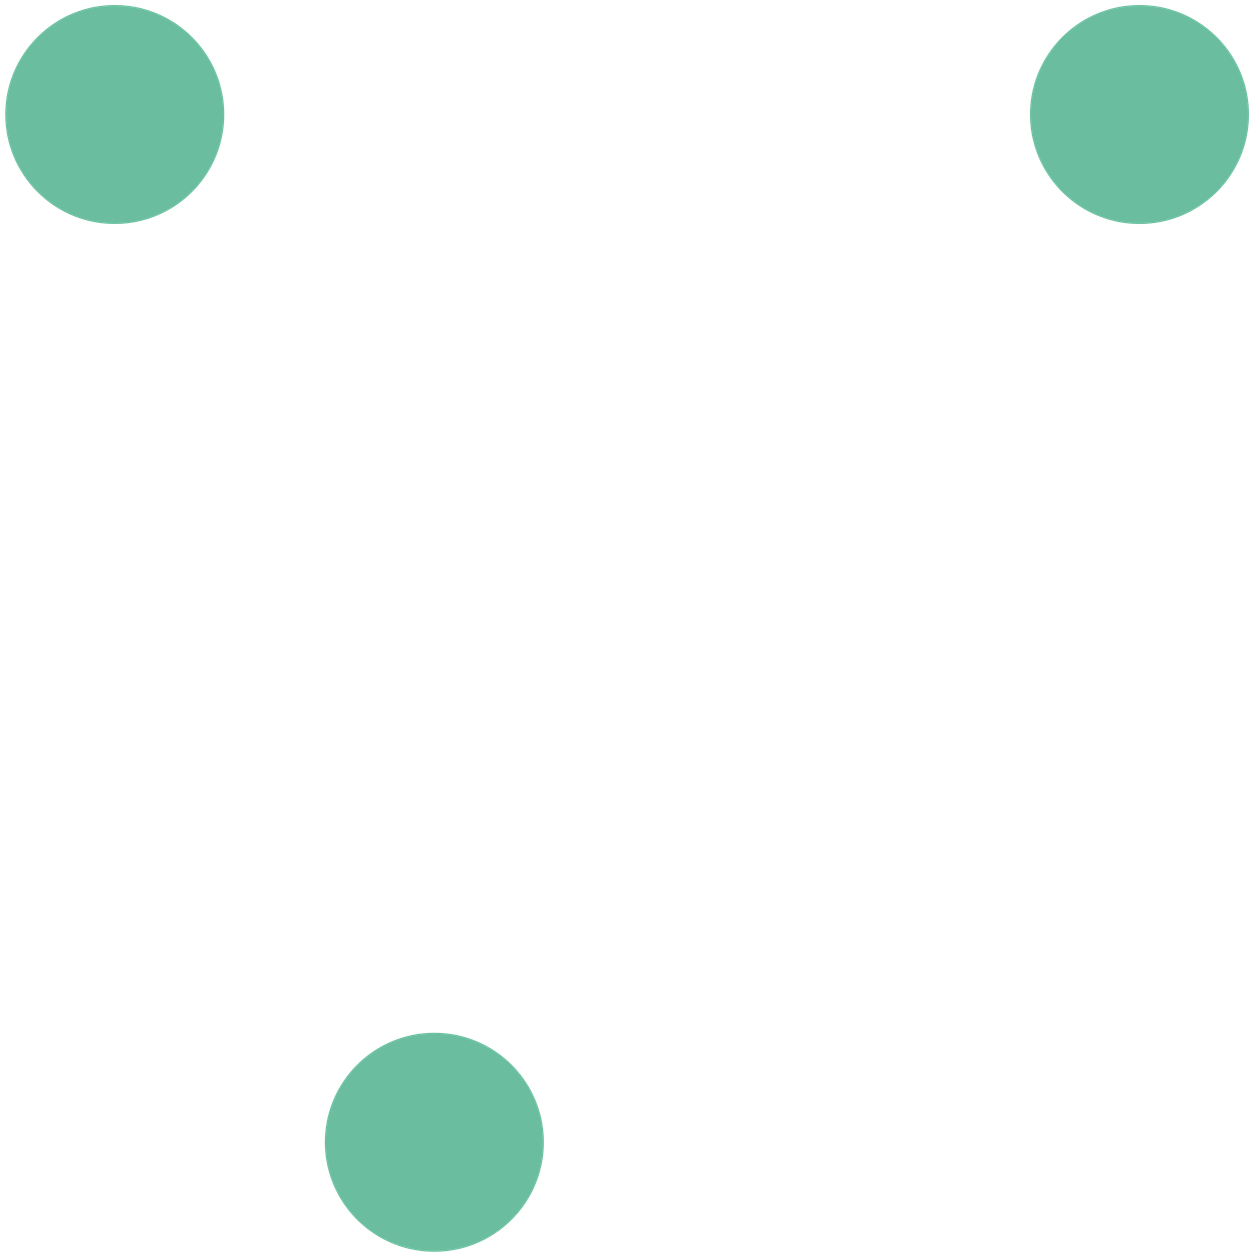
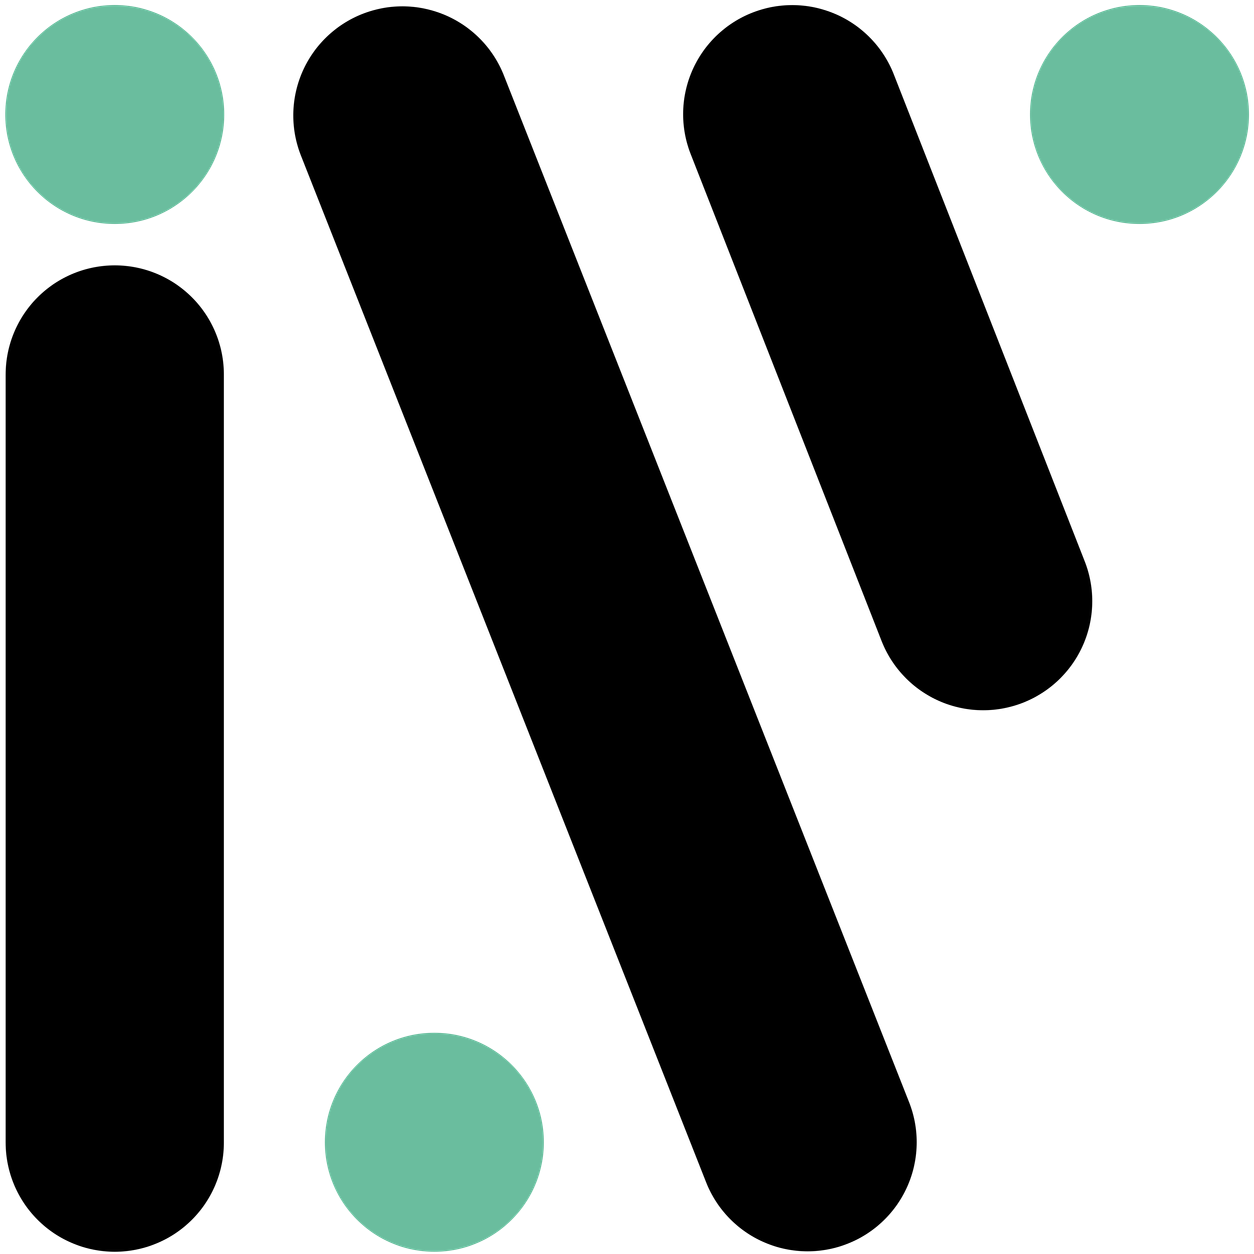
Injeccotr World Ver: 0.71

diff --git a/lib/seo-defaults.ts b/lib/seo-defaults.ts
@@ -4,6 +4,8 @@ const siteUrl = process.env.NEXT_PUBLIC_SITE_URL || 'https://injector.world'
 
 // Sitewide fallback social share image. Square logo mark, not a designed
 // 1200x630 banner -- swap for a proper OG banner when one exists.
+// Black mark on solid white (not transparent) so it stays visible regardless
+// of what background color the sharing platform's preview card uses.
 export const DEFAULT_OG_IMAGES: NonNullable<NonNullable<Metadata['openGraph']>['images']> = [
-  { url: `${siteUrl}/iw-mark.png`, width: 1254, height: 1254, alt: 'injector.world' },
+  { url: `${siteUrl}/og-image.png`, width: 1254, height: 1254, alt: 'injector.world' },
 ]
